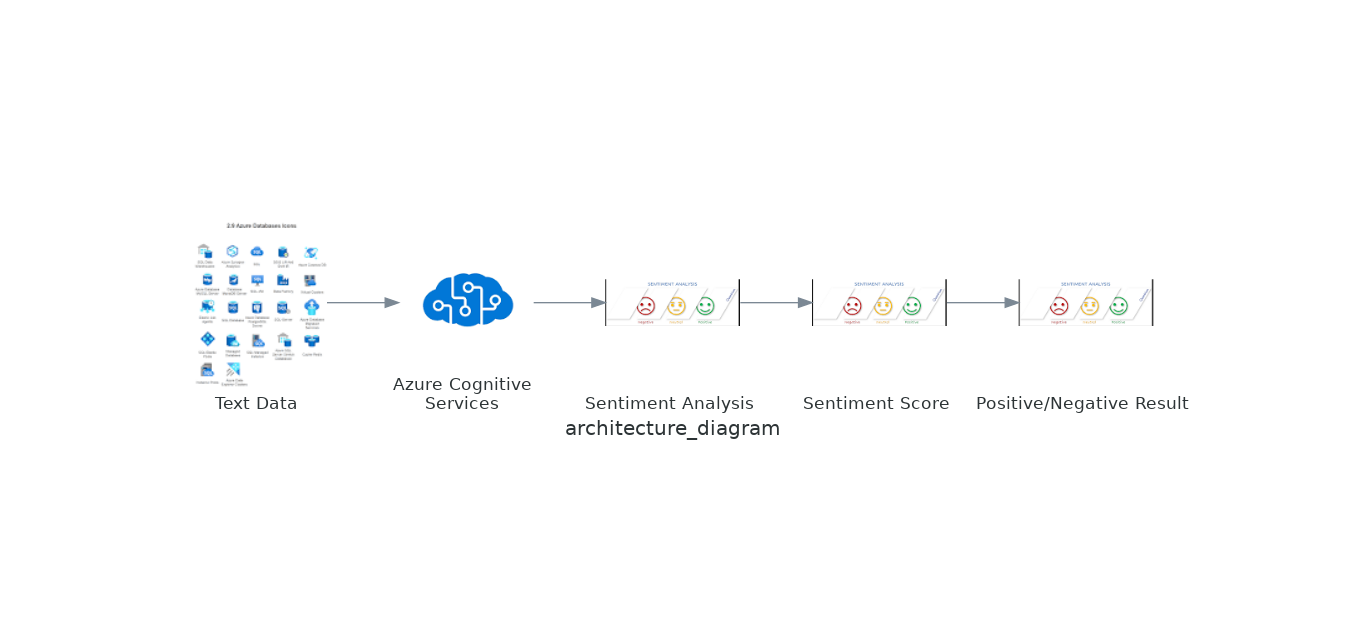
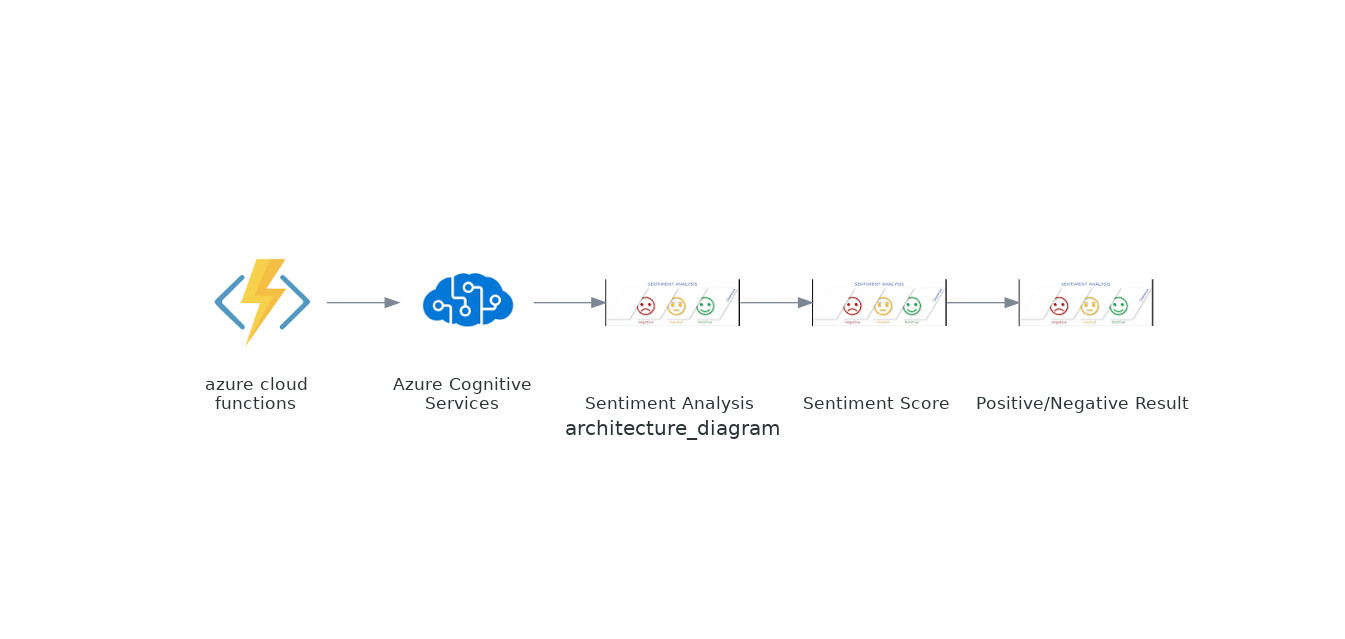
Move files to new folder

Changed region(s): [[0.1249, 0.3865, 0.2498, 0.6541], [0.1561, 0.3271, 0.2186, 0.3568]]

diff --git a/mermaid.html b/mermaid.html
@@ -9,7 +9,7 @@
 <body>
     <div class=mermaid>
         graph LR
-        A[Text Data] --> B[Azure Cognitive Services]
+        A[azure cloud functions] --> B[Azure Cognitive Services]
         B --> C[Sentiment Analysis]
         C --> D[Sentiment Score]
         D --> E[Positive/Negative Result]

diff --git a/dynamic_diagrams_code.py b/dynamic_diagrams_code.py
@@ -31,23 +31,23 @@ def get_image_urls(query):
 
 with Diagram("architecture_diagram", show=False):
 
-    urlretrieve(get_image_urls("icon of Text Data in AZURE"), "/home/runner/work/Archimage_Generator/Archimage_Generator/temp_src_images/Text_Data_icon.png")
-    Text_Data_ = Custom("Text Data \n", "/home/runner/work/Archimage_Generator/Archimage_Generator/temp_src_images/Text_Data_icon.png")
+    urlretrieve(get_image_urls("icon of Sentiment Score in AZURE"), "/home/runner/work/Archimage_Generator/Archimage_Generator/temp_src_images/Sentiment_Score_icon.png")
+    Sentiment_Score_ = Custom("Sentiment Score \n", "/home/runner/work/Archimage_Generator/Archimage_Generator/temp_src_images/Sentiment_Score_icon.png")
 
     urlretrieve(get_image_urls("icon of Positive/Negative Result in AZURE"), "/home/runner/work/Archimage_Generator/Archimage_Generator/temp_src_images/Positive_Negative_Result_icon.png")
     Positive_Negative_Result_ = Custom("Positive/Negative Result \n", "/home/runner/work/Archimage_Generator/Archimage_Generator/temp_src_images/Positive_Negative_Result_icon.png")
 
-    urlretrieve(get_image_urls("icon of Sentiment Analysis in AZURE"), "/home/runner/work/Archimage_Generator/Archimage_Generator/temp_src_images/Sentiment_Analysis_icon.png")
-    Sentiment_Analysis_ = Custom("Sentiment Analysis \n", "/home/runner/work/Archimage_Generator/Archimage_Generator/temp_src_images/Sentiment_Analysis_icon.png")
-
-    urlretrieve(get_image_urls("icon of Sentiment Score in AZURE"), "/home/runner/work/Archimage_Generator/Archimage_Generator/temp_src_images/Sentiment_Score_icon.png")
-    Sentiment_Score_ = Custom("Sentiment Score \n", "/home/runner/work/Archimage_Generator/Archimage_Generator/temp_src_images/Sentiment_Score_icon.png")
-
     urlretrieve(get_image_urls("icon of Azure Cognitive Services in AZURE"), "/home/runner/work/Archimage_Generator/Archimage_Generator/temp_src_images/Azure_Cognitive_Services_icon.png")
     Azure_Cognitive_Services_ = Custom("Azure Cognitive \nServices ", "/home/runner/work/Archimage_Generator/Archimage_Generator/temp_src_images/Azure_Cognitive_Services_icon.png")
 
+    urlretrieve(get_image_urls("icon of Sentiment Analysis in AZURE"), "/home/runner/work/Archimage_Generator/Archimage_Generator/temp_src_images/Sentiment_Analysis_icon.png")
+    Sentiment_Analysis_ = Custom("Sentiment Analysis \n", "/home/runner/work/Archimage_Generator/Archimage_Generator/temp_src_images/Sentiment_Analysis_icon.png")
 
-    Text_Data_ >> Azure_Cognitive_Services_
+    urlretrieve(get_image_urls("icon of azure cloud functions in AZURE"), "/home/runner/work/Archimage_Generator/Archimage_Generator/temp_src_images/azure_cloud_functions_icon.png")
+    azure_cloud_functions_ = Custom("azure cloud \nfunctions ", "/home/runner/work/Archimage_Generator/Archimage_Generator/temp_src_images/azure_cloud_functions_icon.png")
+
+
+    azure_cloud_functions_ >> Azure_Cognitive_Services_
     Azure_Cognitive_Services_ >> Sentiment_Analysis_
     Sentiment_Analysis_ >> Sentiment_Score_
     Sentiment_Score_ >> Positive_Negative_Result_
